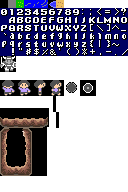
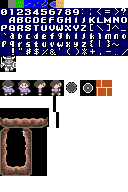
Game files

Changed region(s): [[0.75, 0.4062, 0.875, 0.5]]

diff --git a/src/game/gfx/Screen.java b/src/game/gfx/Screen.java
@@ -123,33 +123,32 @@ public class Screen {
     }
 
 
-    public void setRoundLight(int x, int y, int radius, int filter) {
-        setRoundLight(x, y, radius, filter, Light.SOFT);
+    public void renderRoundLight(int x, int y, int radius, int filter) {
+        renderRoundLight(x, y, radius, filter, Light.SOFT);
     }
 
-    public void setRoundLight(int x, int y, int radius, int filter, Light light) {
-        setRoundLight(x, y, radius, filter, 2, 0, light);
+    public void renderRoundLight(int x, int y, int radius, int filter, Light light) {
+        renderRoundLight(x, y, radius, filter, 2, 0, light);
     }
 
-    public void setRoundLight(int x, int y, int radius, int filter, int xOff, int yOff) {
-        setRoundLight(x, y, radius, filter, xOff, yOff, Light.SOFT);
+    public void renderRoundLight(int x, int y, int radius, int filter, int xOff, int yOff) {
+        renderRoundLight(x, y, radius, filter, xOff, yOff, Light.SOFT);
     }
 
-    public void setRoundLight(int x, int y, int radius, int filter, int xOff, int yOff, Light light) {
-
+    public void renderRoundLight(int x, int y, int radius, int filter, int xOffset, int yOffset, Light light) {
         int radSqur = radius*radius;
 
-        x -= xOffset - xOff;
-        y -= yOffset - yOff;
+        x -= this.xOffset-xOffset;
+        y -= this.yOffset-yOffset;
 
         double distance;
 
         for (int xa = 0;xa < width;xa++) {
             for (int ya = 0;ya < height;ya++) {
                 distance = Math.pow(xa-x, 2)+Math.pow(ya-y, 2);
-                if (distance < radSqur*0.01) {
-                    this.light[xa+ya*width] = filter;
-                } else
+//                if (distance < radSqur*0.01) {
+//                    this.light[xa+ya*width] = filter;
+//                } else
 
                 if (distance < radSqur) {
                     if (light == Light.SOFT)
@@ -157,7 +156,8 @@ public class Screen {
                     if (light == Light.HARD) {
                         this.light[xa+ya*width] = filter;
                     }
-                } else if (distance < radSqur*1.1)
+                } else
+//                if (distance < radSqur*1.1)
                     this.light[xa+ya*width] = null;
             }
         }

diff --git a/src/sokoban/cells/Box.java b/src/sokoban/cells/Box.java
@@ -2,18 +2,19 @@ package sokoban.cells;
 
 import game.entities.Mob;
 import game.gfx.Colors;
+import game.gfx.Light;
 import game.gfx.Screen;
 import game.gfx.SpriteSheet;
 import game.level.Level;
 
-public class Box extends Mob implements Actable {
+public class Box extends Mob {
 
     private int color = Colors.get(432, 543, 432, 000);
     private SpriteSheet sheet = new SpriteSheet("/wall16x16.png");
-    private boolean isHeld;
+    private boolean renderLight;
 
-    public Box(Level level, String name, int x, int y) {
-        super(level, name, x, y, 1);
+    public Box(Level level, int x, int y) {
+        super(level, "Box", x, y, 1);
         solid = true;
         pushable = true;
         dimentions = new int[]{15, 0, 16, 0};
@@ -25,30 +26,22 @@ public class Box extends Mob implements Actable {
     public void tick() {
         if (level.player == null) return;
 
-        if (isHeld) {
-            int xa = level.player.getXa();
-            int ya = level.player.getYa();
-            move(xa, ya);
-            double distSqrt = Math.pow(level.player.x-x, 2)
-                    +Math.pow(level.player.y-y, 2);
+        if (getEntity(x+8, y+8) instanceof Goal) {
+            renderLight = true;
+        } else renderLight = false;
 
-            if (distSqrt > 900) {
-                isHeld = false;
-            }
-        }
-
-
-
-
-//        this.isHeld = false;
-
-//        if (level.player )
 
     }
 
     @Override
     public void render(Screen screen) {
-        screen.render(x, y, sheet,0, 0, 1, 16);
+        screen.render(x, y, sheet, 0, 0, 1, 16);
+
+        if (renderLight) {
+            screen.renderRoundLight(x + 5, y + 8, 13, -0x66, Light.SOFT);
+        }
+//        else screen.renderRoundLight(x, y, 15, 0, Light.HARD);
+
 
     }
 
@@ -58,9 +51,4 @@ public class Box extends Mob implements Actable {
 
     }
 
-    @Override
-    public void act() {
-        this.isHeld = !isHeld;
-
-    }
 }

diff --git a/src/game/entities/Entity.java b/src/game/entities/Entity.java
@@ -3,10 +3,7 @@ package game.entities;
 
 import game.gfx.Screen;
 import game.level.Level;
-import sokoban.cells.Ball;
-import sokoban.cells.Box;
-import sokoban.cells.Lantern;
-import sokoban.cells.Wall;
+import sokoban.cells.*;
 
 import java.util.ArrayList;
 import java.util.Arrays;
@@ -17,7 +14,7 @@ public abstract class Entity implements Comparable{
     public int x, y;
     protected Level level;
     protected boolean solid;
-    private List<Class> renderOrder = Arrays.asList(Player.class, Lantern.class, Ball.class, Box.class, Wall.class);
+    private List<Class> renderOrder = Arrays.asList(Player.class, Lantern.class, Ball.class, Box.class, Goal.class, Wall.class);
 
 
     /**
@@ -108,6 +105,13 @@ public abstract class Entity implements Comparable{
 //                filter(n -> n.entityOn(x, y)).collect(Collectors.toList());
 
         if (entities.size() > 0) {
+            if (entities.get(0).equals(this)) {
+                for (Entity entity : entities) {
+                    if (!entity.equals(this)) {
+                        return entity;
+                    }
+                }
+            }
             return entities.get(0);
         }
         return null;

diff --git a/src/sokoban/Sokoban.java b/src/sokoban/Sokoban.java
@@ -3,11 +3,9 @@ package sokoban;
 import game.Game;
 import game.GameListener;
 import game.entities.Player;
-import game.gfx.Light;
 import game.gfx.Screen;
 import game.level.Level;
-import sokoban.cells.Lantern;
-import sokoban.cells.Wall;
+import sokoban.cells.*;
 
 public class Sokoban implements GameListener {
     Game game;
@@ -17,15 +15,18 @@ public class Sokoban implements GameListener {
 
     public Sokoban() {
         game = new Game("Sokoban",this);
-        new Lantern(level, "lantern", 10, 50, Light.SOFT);
-        new Wall(level, 50, 50);
+//        new Lantern(level, "lantern", 10, 50, Light.SOFT);
+//        new Wall(level, 50, 50);
+        new Box(level, 10, 50);
+        new Goal(level, 40, 50);
+
 
 //        new Box(level, "box", 40, 40);
 //        new Ball(level, "Ball", player.x, player.y);
-        game.setLighting(false);
+        game.setLighting(true);
         game.setDaylightCycle(false);
         game.setCycleTime(1);
-        game.setLight();
+        game.setLight(0);
 
         game.start();
     }

diff --git a/src/sokoban/cells/Goal.java b/src/sokoban/cells/Goal.java
@@ -1,0 +1,40 @@
+package sokoban.cells;
+
+import game.entities.Mob;
+import game.gfx.Screen;
+import game.gfx.SpriteSheet;
+import game.level.Level;
+
+import java.util.Arrays;
+
+public class Goal extends Mob {
+
+    private final SpriteSheet goalSheet;
+
+    public Goal(Level level, int x, int y) {
+        super(level, "Goal", x, y, 0);
+        goalSheet = new SpriteSheet("/box16x16.png");
+
+        solid = false;
+        pushable = false;
+        dimentions = new int[]{10, 6, 10, 6};
+
+    }
+
+    @Override
+    public void tick() {
+
+    }
+
+    @Override
+    public void render(Screen screen) {
+        screen.render(x, y, goalSheet, 0, 0, 1, 16, Arrays.asList(0xffffff));
+
+
+    }
+
+    @Override
+    public void isPushed(int x, int y) {
+
+    }
+}

diff --git a/src/sokoban/cells/Lantern.java b/src/sokoban/cells/Lantern.java
@@ -11,7 +11,7 @@ import java.util.Arrays;
 public class Lantern extends Mob implements Actable{
     private boolean isHeld;
     private Light light;
-    private SpriteSheet lanternSheet;
+    private final SpriteSheet lanternSheet;
 
     public Lantern(Level level, String name, int x, int y, Light light) {
         super(level, name, x, y, 1);
@@ -38,7 +38,7 @@ public class Lantern extends Mob implements Actable{
     @Override
     public void render(Screen screen) {
 
-        screen.setRoundLight(x, y, 50, 0, 6, 6, light);
+        screen.renderRoundLight(x, y, 50, 0, 6, 6, light);
 
         if (!isHeld) {
             screen.render(x, y, lanternSheet, 0 , 0, 1, 16, Arrays.asList(0xffffff));

diff --git a/src/game/entities/Player.java b/src/game/entities/Player.java
@@ -121,7 +121,7 @@ public class Player extends Mob implements Actable {
         int xOffset = x-modifier/2;
         int yOffset = y-modifier/2-4;
 
-//        screen.setRoundLight(x + 3, y, 10, 0, 1, 0, Light.HARD);
+//        screen.renderRoundLight(x + 3, y, 10, 0, 1, 0, Light.HARD);
 
         if (isJumping && !isSwimming) {
             yOffset -= 6;

diff --git a/src/sokoban/cells/Ball.java b/src/sokoban/cells/Ball.java
@@ -79,7 +79,7 @@ public class Ball extends Mob {
     public void render(Screen screen) {
 
 //        screen.render(x,y,10 + 10 * 16,color,0,1);
-        screen.setRoundLight(x, y, 60, 0x01, 6,6, Light.SOFT);
+        screen.renderRoundLight(x, y, 60, 0x01, 6,6, Light.SOFT);
         screen.render(x,y,sheet,0, 0, 1, 16, Arrays.asList(0xffffff));
 
 

diff --git a/src/sokoban/cells/Wall.java b/src/sokoban/cells/Wall.java
@@ -24,7 +24,7 @@ public class Wall extends Mob {
 
     @Override
     public void render(Screen screen) {
-        screen.render(x, y, 10+5*(screen.width >> 4), 0, 1, 16, Arrays.asList());
+        screen.render(x, y, 11+5*(screen.width >> 4), 0, 1, 16, Arrays.asList());
 
     }
 
